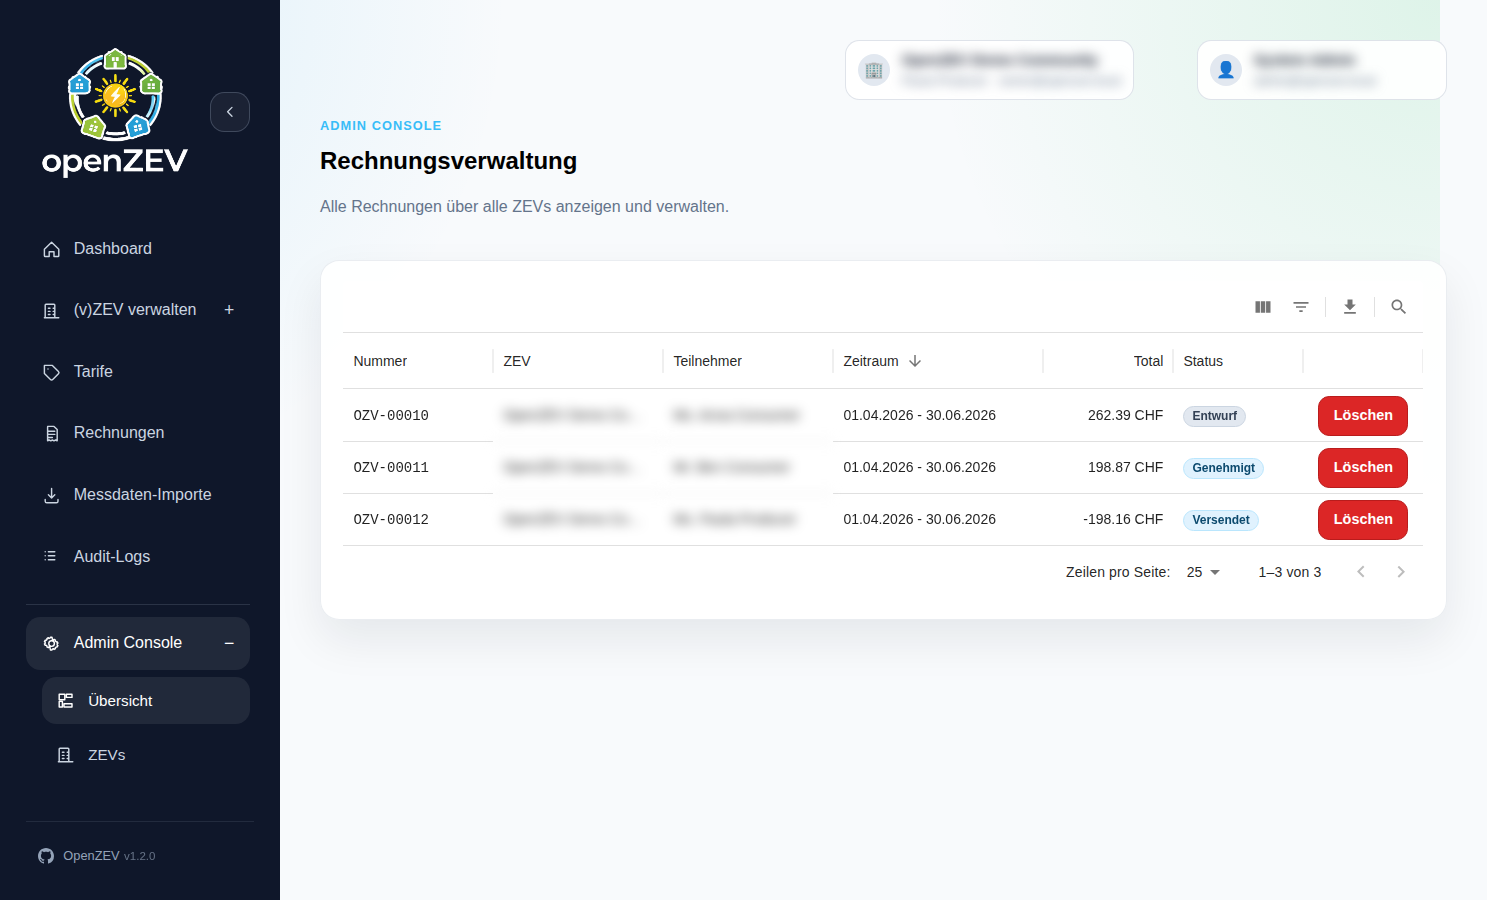
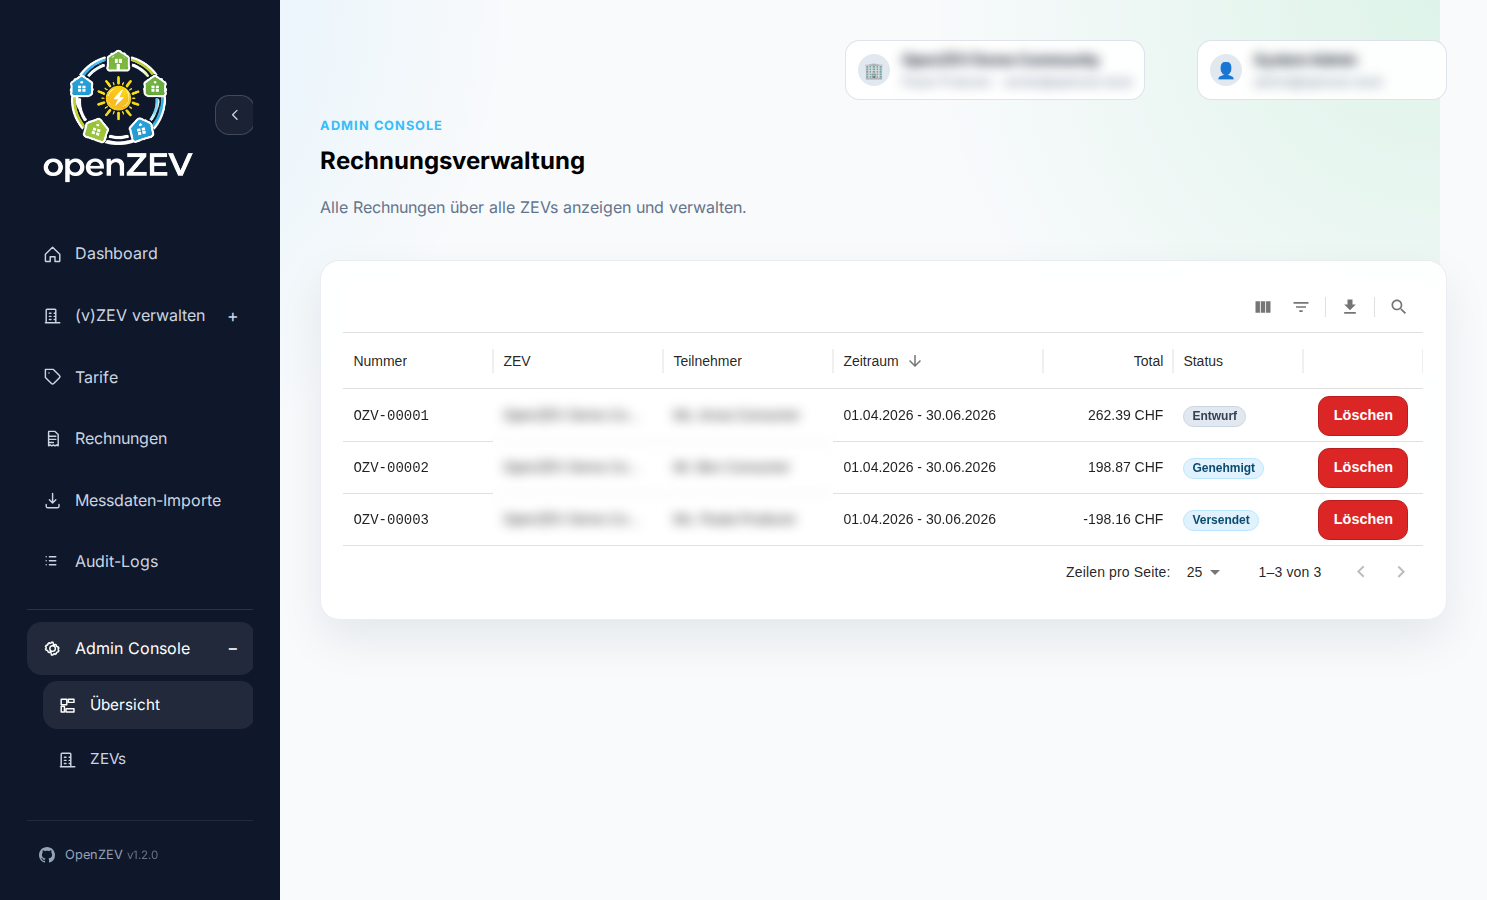
fix(frontend): ship the Inter font (and recapture screenshots) (#300)
* fix(frontend): ship the Inter font instead of falling back to system-ui

The app declared `Inter` in index.css's :root, but the font was never
installed or loaded, so every page silently rendered in system-ui. On top
of that, Mantine's stylesheet sets `body { font-family }`, which overrode
the :root declaration anyway.

Self-host Inter via @fontsource-variable/inter (one variable woff2 covering
weights 100-900, no external CDN) and set the same stack on the Mantine
theme so it wins over Mantine's body reset.

* docs(screenshots): recapture user-guide screenshots with the Inter font

Regenerate all 21 user-guide screenshots against the dev stack so they
reflect the now-shipped Inter typography. These images had also drifted
from the current UI due to an earlier dependency bump, so this brings the
docs back in sync in one pass.

---------

diff --git a/frontend/src/main.tsx b/frontend/src/main.tsx
@@ -7,6 +7,7 @@ import { useTranslation } from 'react-i18next'
 import 'dayjs/locale/de'
 import 'dayjs/locale/fr'
 import 'dayjs/locale/it'
+import '@fontsource-variable/inter/index.css'
 import '@mantine/core/styles.css'
 import '@mantine/dates/styles.css'
 import './index.css'
@@ -21,9 +22,11 @@ const queryClient = new QueryClient()
 // Aligns Mantine's surfaces (date pickers) with the hand-rolled CSS in index.css:
 // Tailwind's sky ramp, whose shade 6 is the brand blue used by .button's gradient.
 //
-// Deliberately no `fontFamily`: Mantine's stylesheet sets `body { font-family }`,
-// so overriding it here would restyle the whole app, not just Mantine's surfaces.
+// `fontFamily` must be set here too: Mantine's stylesheet sets `body { font-family }`,
+// which otherwise overrides index.css and reverts the app to the system font. Keep this
+// stack in sync with index.css's `:root`.
 const mantineTheme = createTheme({
+    fontFamily: "'Inter Variable', Inter, system-ui, -apple-system, BlinkMacSystemFont, 'Segoe UI', sans-serif",
     defaultRadius: 'md',
     primaryColor: 'brand',
     primaryShade: 6,

diff --git a/frontend/src/index.css b/frontend/src/index.css
@@ -1,5 +1,5 @@
 :root {
-  font-family: Inter, system-ui, -apple-system, BlinkMacSystemFont, 'Segoe UI', sans-serif;
+  font-family: 'Inter Variable', Inter, system-ui, -apple-system, BlinkMacSystemFont, 'Segoe UI', sans-serif;
   color: #0f172a;
   background: #f8fafc;
   line-height: 1.5;
